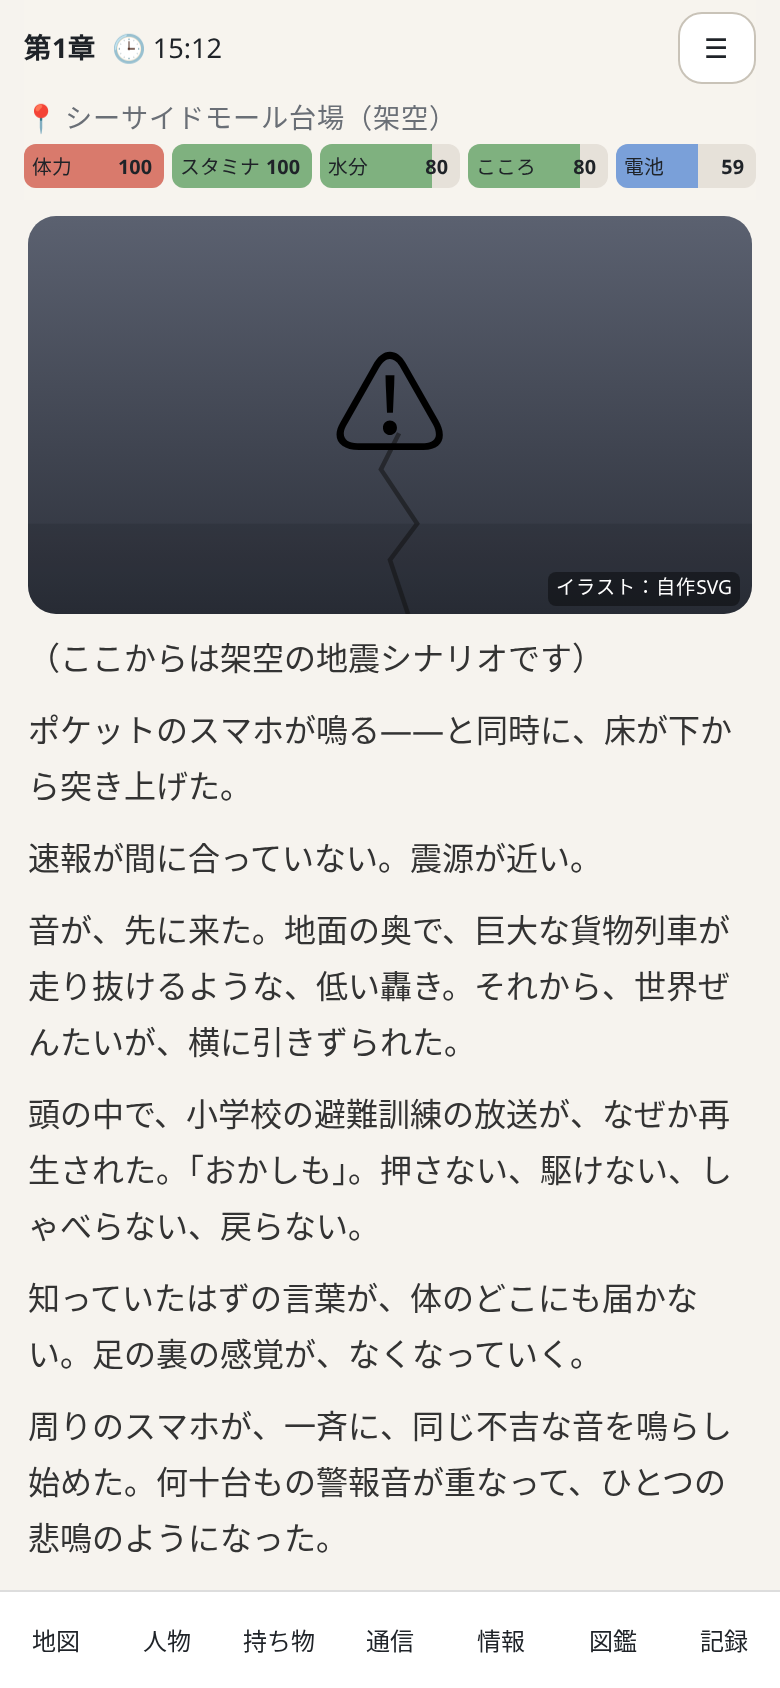
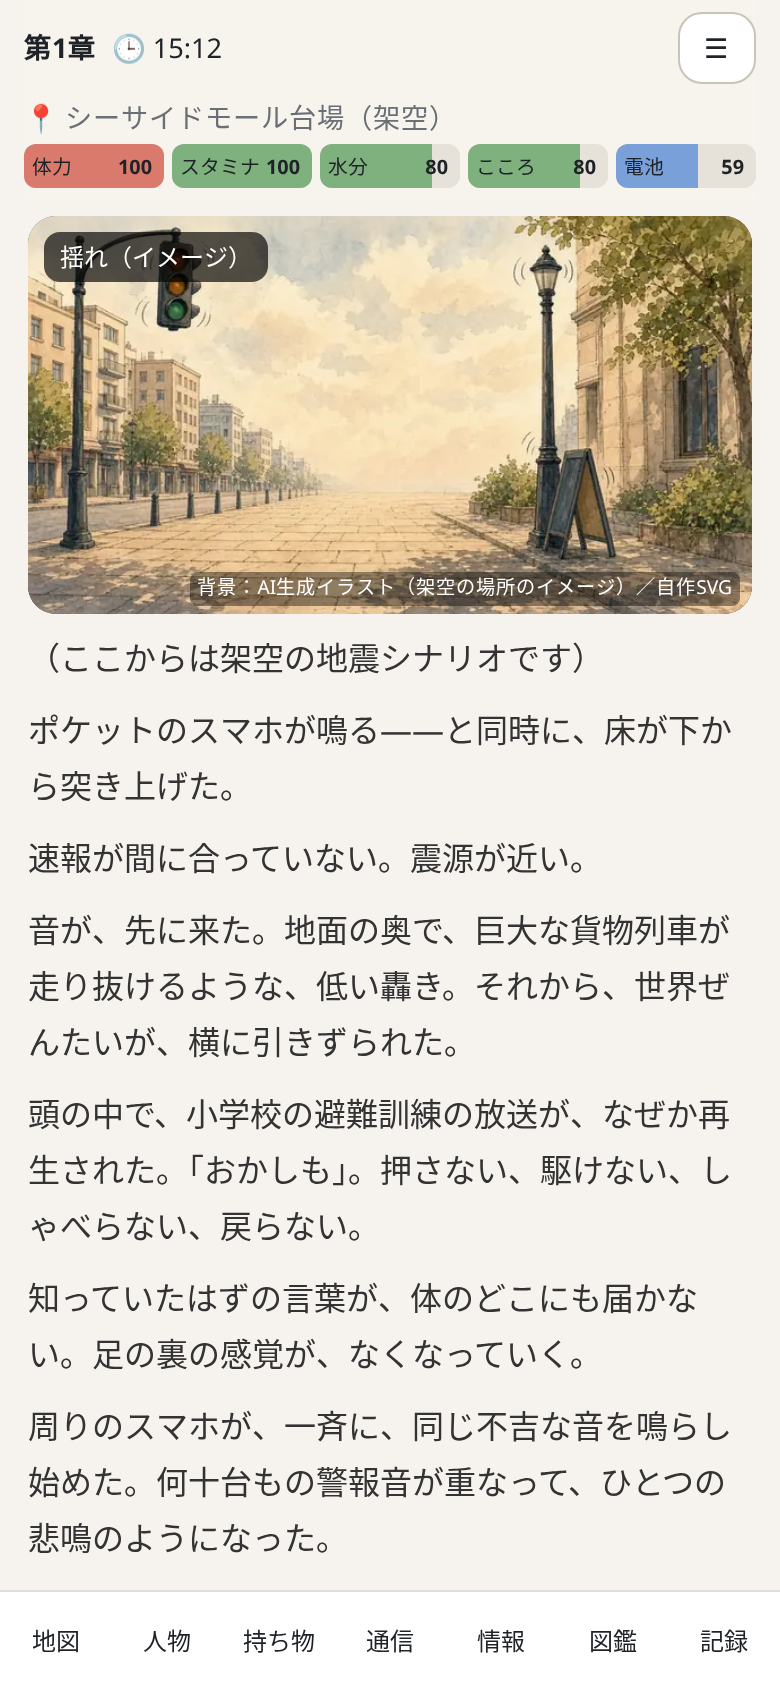
Backgrounds: 47 AI-generated watercolor webp (30 base + 17 time-of-day variants), SVG fallback, captions, RIGHTS

Changed region(s): [[0.0308, 0.1232, 0.9846, 0.3697]]

diff --git a/src/main.ts b/src/main.ts
@@ -1,10 +1,11 @@
 import './style.css';
 import { DB } from './data';
-import { newGame, start, choose, proceed, scene, visibleChoices, fill, clockLabel, resolveEnding, afterPieces, reportSummary, type Feedback } from './engine/engine';
+import { newGame, start, choose, proceed, scene, visibleChoices, fill, clockLabel, quakeClock, resolveEnding, afterPieces, reportSummary, type Feedback } from './engine/engine';
 import type { State, PresetId } from './engine/types';
 import { save, load, clearSave, exportText, importText, prefs, setPrefs, addPlay, plays, type Prefs } from './platform/save';
 import { cue, setSound } from './platform/sound';
-import { sceneArt } from './ui/art';
+import { sceneArt, artCaption } from './ui/art';
+import { bgSrc, todOf } from './ui/bg';
 import { portraitSrc } from './ui/portraits';
 
 export const DISCLAIMER = '本作は防災教育を目的としたシミュレーションゲームです。ゲーム内の地震、被害、施設状況、避難経路、人物の行動は架空のシナリオを含みます。現実の災害時は、気象庁、自治体、消防、警察などの最新の公式情報と現地の状況に従ってください。本作のプレイ結果だけで実際の安全を保証するものではありません。';
@@ -27,7 +28,7 @@ const ad = (where: string) => P.ads ? `<div class="ad" data-ad="${where}">広告
 function title() {
   const sv = load();
   h(`<main class="title">
-    <div class="art">${sceneArt('odaiba_morning')}</div>
+    <div class="art">${sceneArt('odaiba_morning')}${bgImg('odaiba_morning', 'day')}</div>
     <h1>${TITLE}<small>ODAIBA AFTERLINES</small></h1>
     <p class="lead">平日の午後、お台場。架空の「首都直下地震」が起きたら——あなたは、誰と、どう生きのびるか。</p>
     <section class="disc" id="disc"><h2>はじめに（必ずお読みください）</h2><p>${DISCLAIMER}</p></section>
@@ -89,7 +90,7 @@ function play() {
     <header class="hud"><div class="row"><b>第${sc.chapter > 5 ? '—' : sc.chapter}章</b><span class="clock">🕒 ${esc(clockLabel(s))}</span><span class="loc">📍 ${esc(DB.locs.find(l => l.id === s.loc)?.name ?? s.loc)}</span><button id="menu" aria-label="メニュー">☰</button></div>
       <div class="bars">${bar('体力', s.hp, 'hp')}${bar('スタミナ', s.stamina)}${bar('水分', s.water)}${bar('こころ', s.mental)}${bar('電池', s.battery, 'bat')}</div>
       ${s.injuries.length ? `<div class="inj">🩹 ${s.injuries.map(i => esc(DB.injuries[i]?.name ?? i)).join('・')}</div>` : ''}</header>
-    <div class="art scene">${sceneArt(sc.bg)}<span class="credit">イラスト：自作SVG</span></div>
+    <div class="art scene">${sceneArt(sc.bg)}${bgImg(sc.bg, todOf(quakeClock(s) + s.t))}<span class="cap">${esc(artCaption(sc.bg))}（イメージ）</span><span class="credit">背景：AI生成イラスト（架空の場所のイメージ）／自作SVG</span></div>
     ${fbHtml}${deathHtml}
     <section class="lines">${sc.lines.map(([who, t]) => who ? say(who, t, sc.chapter) : `<p class="nar">${F(t)}</p>`).join('')}${P.portraits && sc.lines.some(([w]) => w && portraitSrc(S ? fill(w, S) : w, 0)) ? '<p class="ai-note">立ち絵：AI生成イラスト（架空の人物）</p>' : ''}</section>
     ${photo}${afterHtml}
@@ -179,7 +180,7 @@ function settings(back: () => void) {
     <h3>セーブデータ</h3><div class="btns"><button id="exp">書き出し（コピー）</button><button id="imp">読み込み</button><button id="del">セーブ削除</button></div>
     <textarea id="txt" rows="4" placeholder="ここにセーブデータを貼り付けて「読み込み」"></textarea><p id="msg" class="note"></p>
     <h3>免責事項</h3><p class="disc">${DISCLAIMER}</p>
-    <p class="note">背景イラストは本作のために作成したSVG（自作）です。登場人物の立ち絵はAI生成イラスト（架空の人物・実在人物とは無関係）です。実在の災害映像・写真は使用していません。</p>
+    <p class="note">背景イラストはAI生成イラスト（架空の場所のイメージ・実在施設の写真ではありません）で、読み込めない場合は自作SVGを表示します。登場人物の立ち絵はAI生成イラスト（架空の人物・実在人物とは無関係）です。実在の災害映像・写真は使用していません。</p>
     <div class="btns"><button class="primary" id="b">戻る</button></div></main>`);
   const g = (id: string) => app.querySelector('#' + id) as HTMLInputElement;
   const upd = () => { P = { ...P, muted: g('mute').checked, volume: Number(g('vol').value), ads: g('ads').checked, portraits: g('pt').checked }; setPrefs(P); setSound(P.volume, P.muted); document.body.classList.toggle('calm', g('calm').checked); localStorage.setItem('odaiba-afterlines.calm', g('calm').checked ? '1' : ''); };
@@ -191,3 +192,8 @@ function settings(back: () => void) {
 }
 document.body.classList.toggle('calm', localStorage.getItem('odaiba-afterlines.calm') === '1');
 title();
+
+function bgImg(bg: string, tod: Parameters<typeof bgSrc>[1]): string {
+  const src = bgSrc(bg, tod); if (!src) return '';
+  return `<img class="bgimg" src="${src}" alt="" aria-hidden="true" onerror="this.remove()">`;
+}

diff --git a/src/ui/bg.ts b/src/ui/bg.ts
@@ -1,0 +1,24 @@
+// AI生成の背景イラスト（架空の場所のイメージ。実在施設の写真ではありません）。docs/RIGHTS.md 参照。
+// 読み込みに失敗した場合は自作SVG（art.ts）がそのまま表示される。
+const BASE = ['morning_home', 'odaiba_morning', 'promenade', 'mall_food', 'family_call', 'shop', 'mall_window', 'quake', 'quake_indoor', 'elevator', 'beach_quake', 'beach_after', 'mall_damage', 'smoke', 'injured', 'child', 'phone_sns', 'family_away', 'crowd', 'facility', 'night_shelter', 'liquefaction', 'walk_night', 'aid', 'dawn', 'reunion', 'shelter_life', 'rebuild', 'letter', 'memorial'];
+const ALIAS: Record<string, string> = { phone_171: 'phone_sns' };
+const VARIANTS = ['rebuild', 'crowd', 'shelter_life', 'reunion', 'aid', 'family_away', 'facility', 'promenade'];
+export type Tod = 'day' | 'eve' | 'night' | 'late';
+/** 分（0–1439）から時間帯を返す。16:00–18:30 夕方 / 18:30–05:30 夜（isNight と同じ）/ 00:00–04:00 深夜 */
+export function todOf(mm: number): Tod {
+  mm = ((mm % 1440) + 1440) % 1440;
+  if (mm < 4 * 60) return 'late';
+  if (mm >= 18 * 60 + 30 || mm < 5 * 60 + 30) return 'night';
+  if (mm >= 16 * 60) return 'eve';
+  return 'day';
+}
+export function bgFile(bg: string, tod: Tod = 'day'): string | null {
+  const k = ALIAS[bg] ?? bg;
+  if (k === 'night_shelter' && tod === 'late') return 'night_shelter_late';
+  if (VARIANTS.includes(k) && tod !== 'day') return `${k}_${tod === 'late' ? 'night' : tod}`;
+  return BASE.includes(k) ? k : null;
+}
+export function bgSrc(bg: string, tod: Tod = 'day'): string | null {
+  const f = bgFile(bg, tod); return f ? `${import.meta.env.BASE_URL}bg/${f}.webp` : null;
+}
+export const BG_FILES = [...BASE, ...VARIANTS.flatMap(v => [`${v}_eve`, `${v}_night`]), 'night_shelter_late'];

diff --git a/tests/bg.test.ts b/tests/bg.test.ts
@@ -1,0 +1,13 @@
+import { describe, it, expect } from 'vitest';
+import { existsSync } from 'node:fs';
+import { artKeys } from '../src/ui/art';
+import { bgFile, BG_FILES, todOf } from '../src/ui/bg';
+describe('backgrounds', () => {
+  it('every art key resolves to an existing webp for all times of day', () => {
+    for (const k of artKeys) for (const t of ['day', 'eve', 'night', 'late'] as const) {
+      const f = bgFile(k, t); expect(f, k).toBeTruthy(); expect(existsSync(`public/bg/${f}.webp`), `${k}/${t}`).toBe(true);
+    }
+  });
+  it('all listed files exist (47)', () => { expect(BG_FILES.length).toBe(47); for (const f of BG_FILES) expect(existsSync(`public/bg/${f}.webp`), f).toBe(true); });
+  it('time of day', () => { expect(todOf(10 * 60)).toBe('day'); expect(todOf(17 * 60)).toBe('eve'); expect(todOf(20 * 60)).toBe('night'); expect(todOf(2 * 60)).toBe('late'); });
+});

diff --git a/src/ui/art.ts b/src/ui/art.ts
@@ -44,3 +44,4 @@ export function sceneArt(bg: string): string {
   return `<svg viewBox="0 0 400 220" role="img" aria-label="${p.caption}（イラスト）" preserveAspectRatio="xMidYMid slice"><defs><linearGradient id="g_${bg}" x1="0" y1="0" x2="0" y2="1"><stop offset="0" stop-color="${p.sky[0]}"/><stop offset="1" stop-color="${p.sky[1]}"/></linearGradient></defs><rect width="400" height="220" fill="url(#g_${bg})"/>${stars}${smoke}${city}${sea}${crack}<text x="200" y="128" font-size="64" text-anchor="middle">${p.motif}</text></svg>`;
 }
 export const artKeys = Object.keys(A);
+export function artCaption(bg: string): string { return A[bg]?.caption ?? bg; }

diff --git a/src/style.css b/src/style.css
@@ -47,3 +47,6 @@ body.calm .scene{animation:none!important}body.calm .scene::after{display:none}
 .say.wp .pt{grid-row:span 2;width:64px;height:64px;border-radius:50%;object-fit:cover;object-position:50% 25%;border:2px solid var(--mut);background:#f5ecd9}
 .say.wp b{display:block}
 .ai-note{font-size:.7rem;color:var(--mut);text-align:right;margin:.2rem 0 0}
+
+.art{position:relative}.art .bgimg{position:absolute;inset:0;width:100%;height:100%;object-fit:cover;z-index:0}.art .credit{z-index:2}
+.art .cap{position:absolute;left:8px;top:8px;z-index:2;background:#000a;color:#fff;font-size:12px;padding:2px 8px;border-radius:8px}

diff --git a/docs/RIGHTS.md b/docs/RIGHTS.md
@@ -13,3 +13,10 @@
 
 ## 音
 - 効果音：WebAudioでその場で合成（音源ファイルなし）。初期ミュート。
+
+## 背景イラスト（AI生成）— public/bg/*.webp（47枚）
+- 本作のために画像生成AIで作成した水彩風イラスト（基本30枚＋夕方/夜/深夜の時間帯差分17枚、640×360 webp、計約1.5MB）。
+- 架空の場所の「イメージ」であり、実在施設の写真・実在の災害映像ではありません。画面上に「背景：AI生成イラスト（架空の場所のイメージ）」と表示。
+- 方針：人物の顔・文字・ロゴなし、津波のリアル描写・負傷/流血・ゴア表現なし。
+- 救護所（aid*）の画像は、保護標章である赤十字マークを避けるため、生成後に十字を緑色へ置換。
+- 読み込み失敗時は自作SVG（src/ui/art.ts）を表示（フォールバック）。phone_171 は phone_sns を流用。
